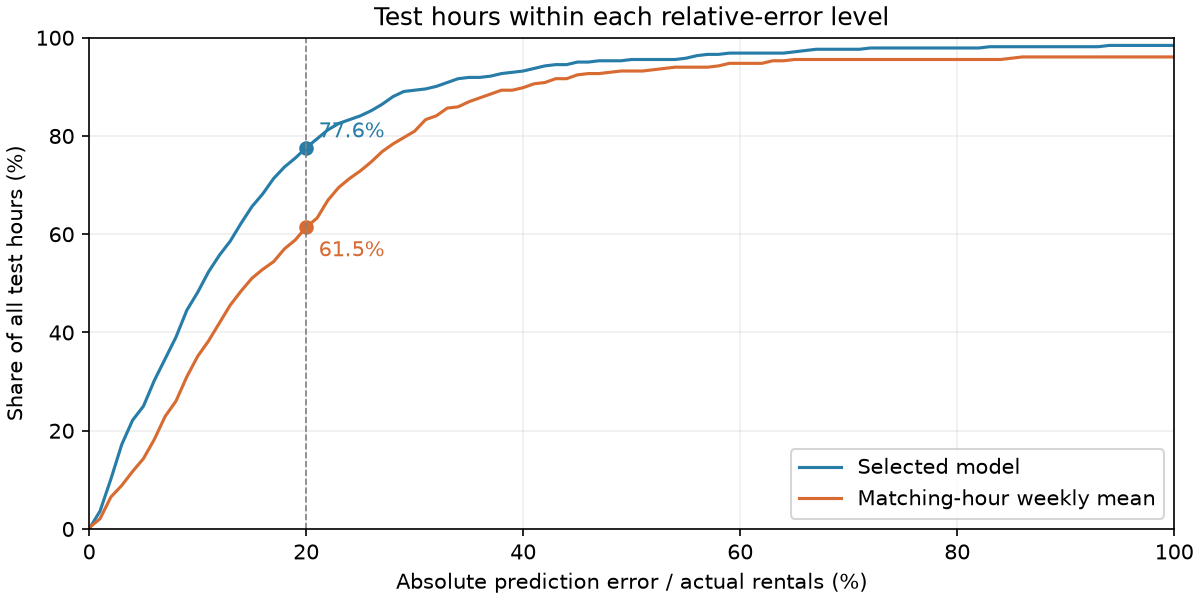
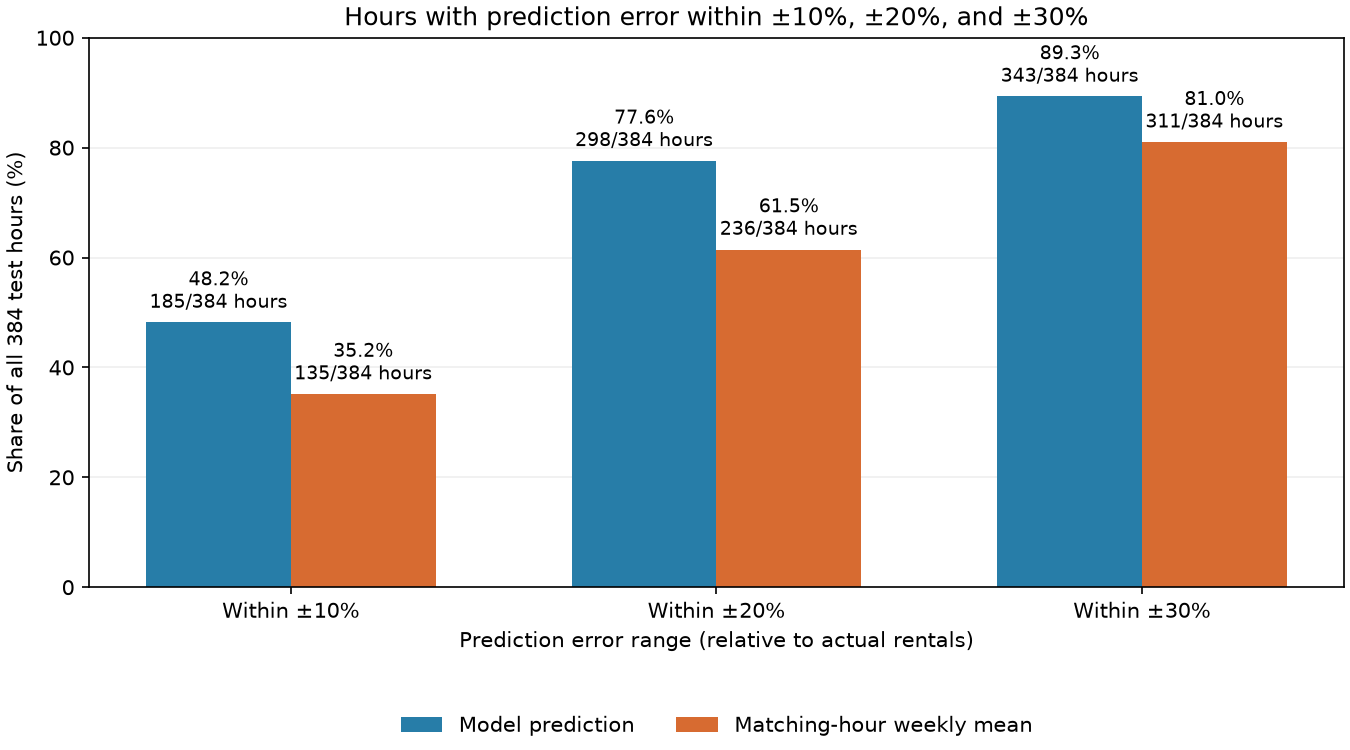
update the chart in readme

diff --git a/README.md b/README.md
@@ -24,7 +24,7 @@ flowchart LR
 
 The experiment compared 22 configurations using the same three validation rounds. Validation weeks span all 12 observed months; the final model is fitted on all 7,910 development targets. The selected gradient boosting model combines known target times, recent rentals, and past weather values/changes to adapt its estimates to the observed conditions. Notebook section 7.1 measures reliance on these input groups using development validation.
 
-### 2.1 Performance as an operational reference
+### 2.1 Prediction errors compared with the weekly mean
 
 **The model was closer to actual rentals than the weekly-mean rule in 239 of 384 hours (62.2%).** This supports its reference value for most operating hours in this test, beyond directly reusing matching historical counts.
 
@@ -33,7 +33,7 @@ The experiment compared 22 configurations using the same three validation rounds
 | Selected gradient boosting | 77.6% | 21.3% |
 | Mean of matching weekday/hour counts from the previous 1–4 weeks | 61.5% | 35.8% |
 
-Percentage error is the absolute prediction error divided by actual rentals for that hour. The 20% band is a descriptive reporting choice; model selection uses validation MAE.
+Percentage error is the absolute prediction error divided by actual rentals for that hour. The grouped bars compare hours within ±10%, ±20%, and ±30%, each out of all 384 test hours. For example, with 1,000 actual rentals, ±20% means a prediction between 800 and 1,200. These ranges describe results; model selection uses validation MAE.
 
 Actual rentals averaged about 675/hour. Mean absolute error was 85.25/hour for the model and 128.19/hour for the rule, a 33.5% reduction. This gives the count error its volume context.
 
@@ -41,7 +41,7 @@ Actual rentals averaged about 675/hour. Mean absolute error was 85.25/hour for t
 
 Development validation can train on months later than a held-out week; final testing uses a model fitted only on earlier targets. These results measure the stated periods.
 
-![Share of test hours within each relative-error level](reports/figures/performance.png)
+![Model and weekly mean: hours within ±10%, ±20%, and ±30% of actual rentals](reports/figures/performance.png)
 
 ## 3. Review the existing results
 

diff --git a/docs/IMPLEMENTATION_DISCUSSION.md b/docs/IMPLEMENTATION_DISCUSSION.md
@@ -227,7 +227,7 @@ For each positive actual count, calculate absolute error / actual count. Averagi
 
 The low-volume group has a mean absolute error exceeding its mean actual count, and the model is closer on only four of those thirteen hours. MAPE is sensitive to small actual counts, as described in the [metric documentation](https://scikit-learn.org/stable/modules/generated/sklearn.metrics.mean_absolute_percentage_error.html). The stronger overall reference value and this limitation are both part of the result.
 
-Notebook section 8.1 computes the comparison table, hour-by-hour wins, volume groups, and [error-coverage curve](../reports/figures/performance.png) directly from its final-test predictions. The curve shows thresholds up to 100%, with every test hour retained in the denominator. Evidence covers the 16-day November test period; operational benefits and performance in other periods require separate evaluation.
+Notebook section 8.1 computes the comparison table, hour-by-hour wins, volume groups, and [grouped error-comparison bars](../reports/figures/performance.png) directly from its final-test predictions. The bars compare hours within ±10%, ±20%, and ±30% of actual rentals; each is labelled with its percentage and count out of all 384 test hours. Evidence covers the 16-day November test period; operational benefits and performance in other periods require separate evaluation.
 
 ### 7.2 Reports for detailed checks
 
